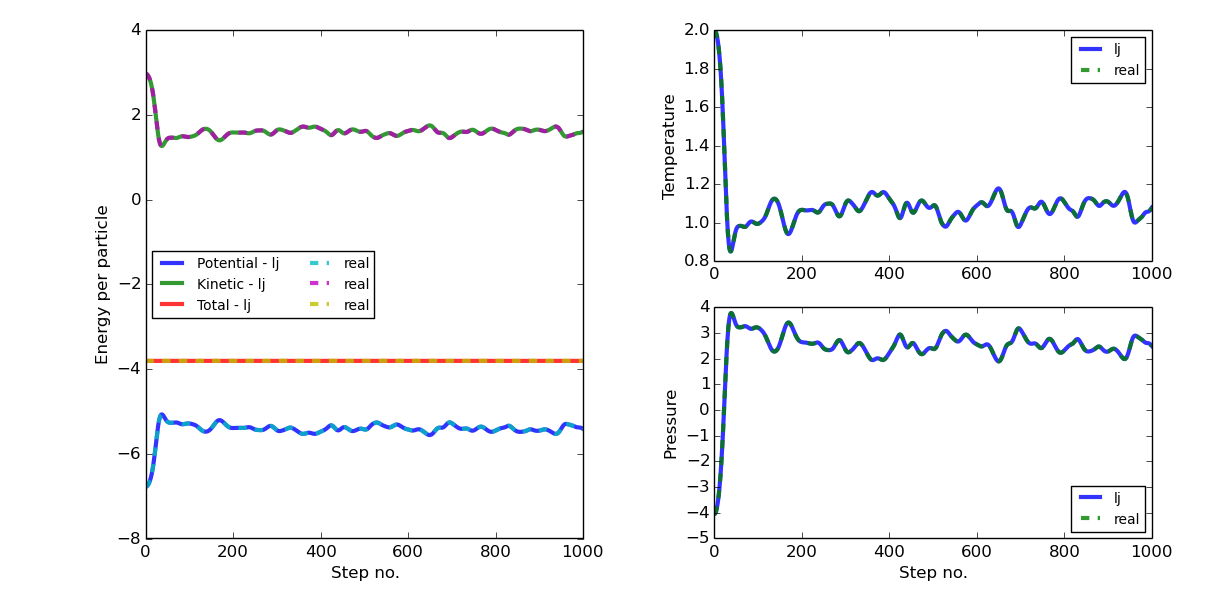
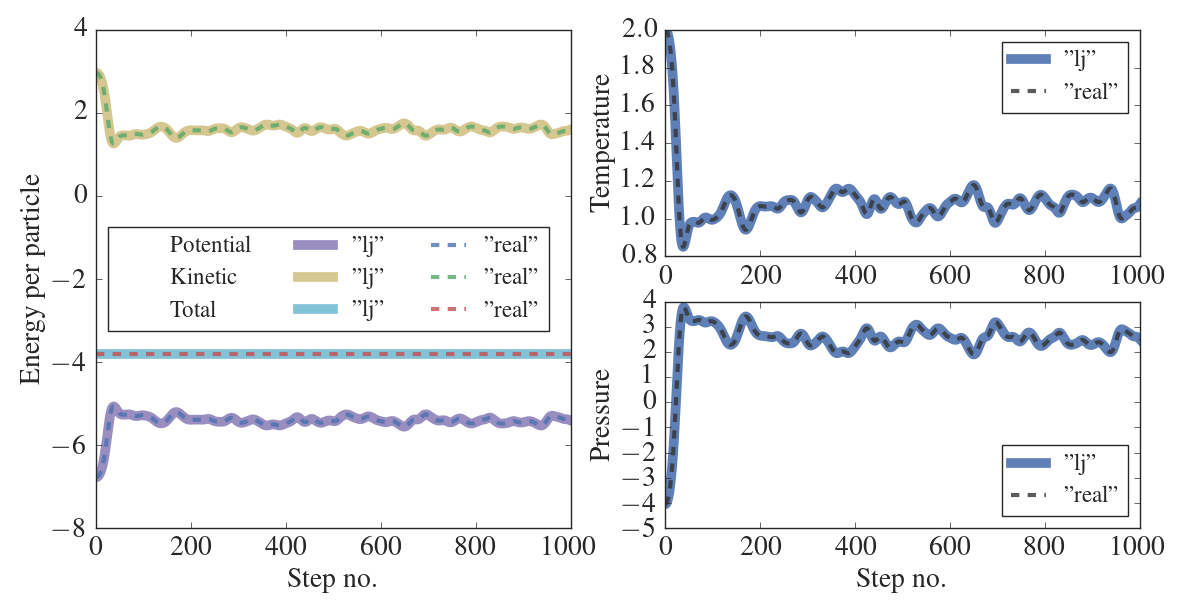
Updated settings input.

Changed region(s): [[0.0, 0.03, 0.9867, 0.99], [0.0, 0.3, 0.0308, 0.48]]

diff --git a/examples/molecular_dynamics/md_nve/strange_units/compare.py b/examples/molecular_dynamics/md_nve/strange_units/compare.py
@@ -18,6 +18,7 @@ import numpy as np
 from pyretis.core.units import (create_conversion_factors,
                                 generate_system_conversions, CONVERT)
 from pyretis.inout.writers.traj import read_gromacs_file
+from pyretis.inout.settings import parse_settings_file
 # for plotting:
 from pyretis.inout.plotting import mpl_set_style
 from matplotlib import pyplot as plt
@@ -47,7 +48,7 @@ def compare_traj(traj1, traj2):
     print('Comparing with filecmp...')
     result = filecmp.cmp(traj1, traj2)
     if result is True:
-        result_string = 'Files are equal!'
+        result_string = 'Files are equal! :-)'
     else:
         result_string = 'Files are NOT equal!'
     print('Result: {}'.format(result_string))
@@ -67,10 +68,8 @@ def compare_traj(traj1, traj2):
 
 
 if __name__ == '__main__':
-    UNIT = 'lj'
-    with open('unit.txt', 'r') as fileh:
-        for lines in fileh:
-            UNIT = lines.strip()
+    settings = parse_settings_file('settings.rst')
+    UNIT = settings['system']['units']
     create_conversion_factors('lj')
     create_conversion_factors(UNIT)
     generate_system_conversions('lj', UNIT)
@@ -93,17 +92,17 @@ if __name__ == '__main__':
     ax1.plot([], [], label='Total', lw=0, alpha=0)
 
     ax1.plot(ljunits[:, 0], ljunits[:, 2], label=ljlab,
-             ls='-', lw=7, alpha=0.7, color='darkblue')
+             ls='-', lw=7, alpha=0.8)
     ax1.plot(ljunits[:, 0], ljunits[:, 3], label=ljlab,
-             ls='-', lw=7, alpha=0.8, color='darkgreen')
+             ls='-', lw=7, alpha=0.8)
     ax1.plot(ljunits[:, 0], ljunits[:, 4], label=ljlab,
-             ls='-', lw=7, alpha=0.8, color='orange')
+             ls='-', lw=7, alpha=0.8)
     ax1.plot(other_units[:, 0], other_units[:, 2], label=unilab,
-             ls='--', lw=3, alpha=0.8, color='magenta')
+             ls='--', lw=3, alpha=0.8)
     ax1.plot(other_units[:, 0], other_units[:, 3], label=unilab,
-             ls='--', lw=3, alpha=0.8, color='0.1')
+             ls='--', lw=3, alpha=0.8)
     ax1.plot(other_units[:, 0], other_units[:, 4], label=unilab,
-             ls='--', lw=3, alpha=0.8, color='red')
+             ls='--', lw=3, alpha=0.8)
     ax1.set_xlabel('Step no.')
     ax1.set_ylabel('Energy per particle')
     leg = ax1.legend(loc='center left', prop={'size': 'small'}, ncol=3)
@@ -125,4 +124,5 @@ if __name__ == '__main__':
     ax3.legend(loc='lower right', prop={'size': 'small'})
     fig1.subplots_adjust(bottom=0.12, right=0.95, top=0.95,
                          left=0.08, wspace=0.2)
+    fig1.savefig('compare.png')
     plt.show()

diff --git a/examples/molecular_dynamics/md_nve/strange_units/settings.rst b/examples/molecular_dynamics/md_nve/strange_units/settings.rst
@@ -9,23 +9,24 @@ steps = 1000
 Integrator settings
 -------------------
 class = velocityverlet
-timestep = 0.002
+timestep = 0.08821552861273872
 
 System settings
 ---------------
-temperature = 2.0
-units = lj
+temperature = 239.6000017707801
+units = real
 
 Particles
 ---------
-position = {'file': 'initial.gro'}
+position = {'generate': 'fcc', 'density': 0.02279770663050494,
+            'repeat': [3, 3, 3]}
 
 velocity = {'generate': 'maxwell',
-            'set-temperature': 2.0,
+            'set-temperature': 239.6000017707801,
             'momentum': True,
             'seed': 0}
 
-mass = {'Ar': 1.0}
+mass = {'Ar': 39.948}
 name = ['Ar']
 type = [0]
 
@@ -38,13 +39,13 @@ Potential
 ---------
 class = PairLennardJonesCutnp
 shift = True
-parameter 0 = {'sigma': 1.0, 'epsilon': 1.0, 'rcut': 2.5}
+parameter 0 = {'sigma': 3.405, 'epsilon': 0.238066991253, 'factor': 2.5}
 
 Output
 ------
 backup = False # True, False, Append
-energy-file = 10
-order-file = 10
+energy-file = 1
+order-file = 1
 cross-file = 1
-trajectory-file = 10
-write_vel = True
+trajectory-file = 1
+write_vel = False
